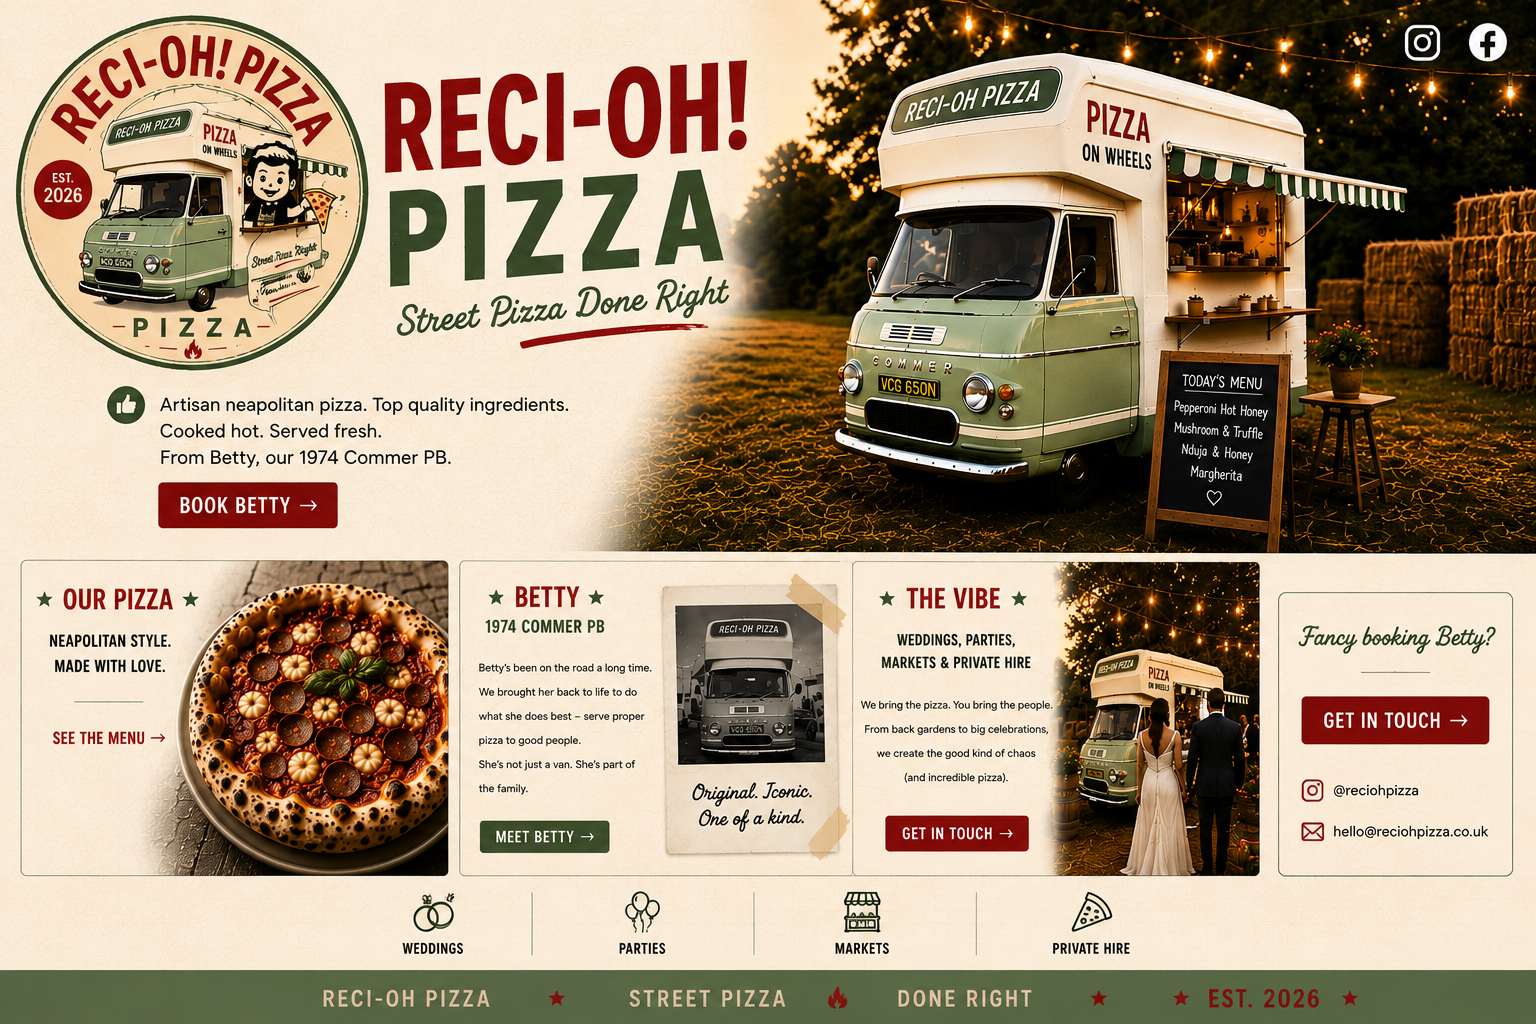
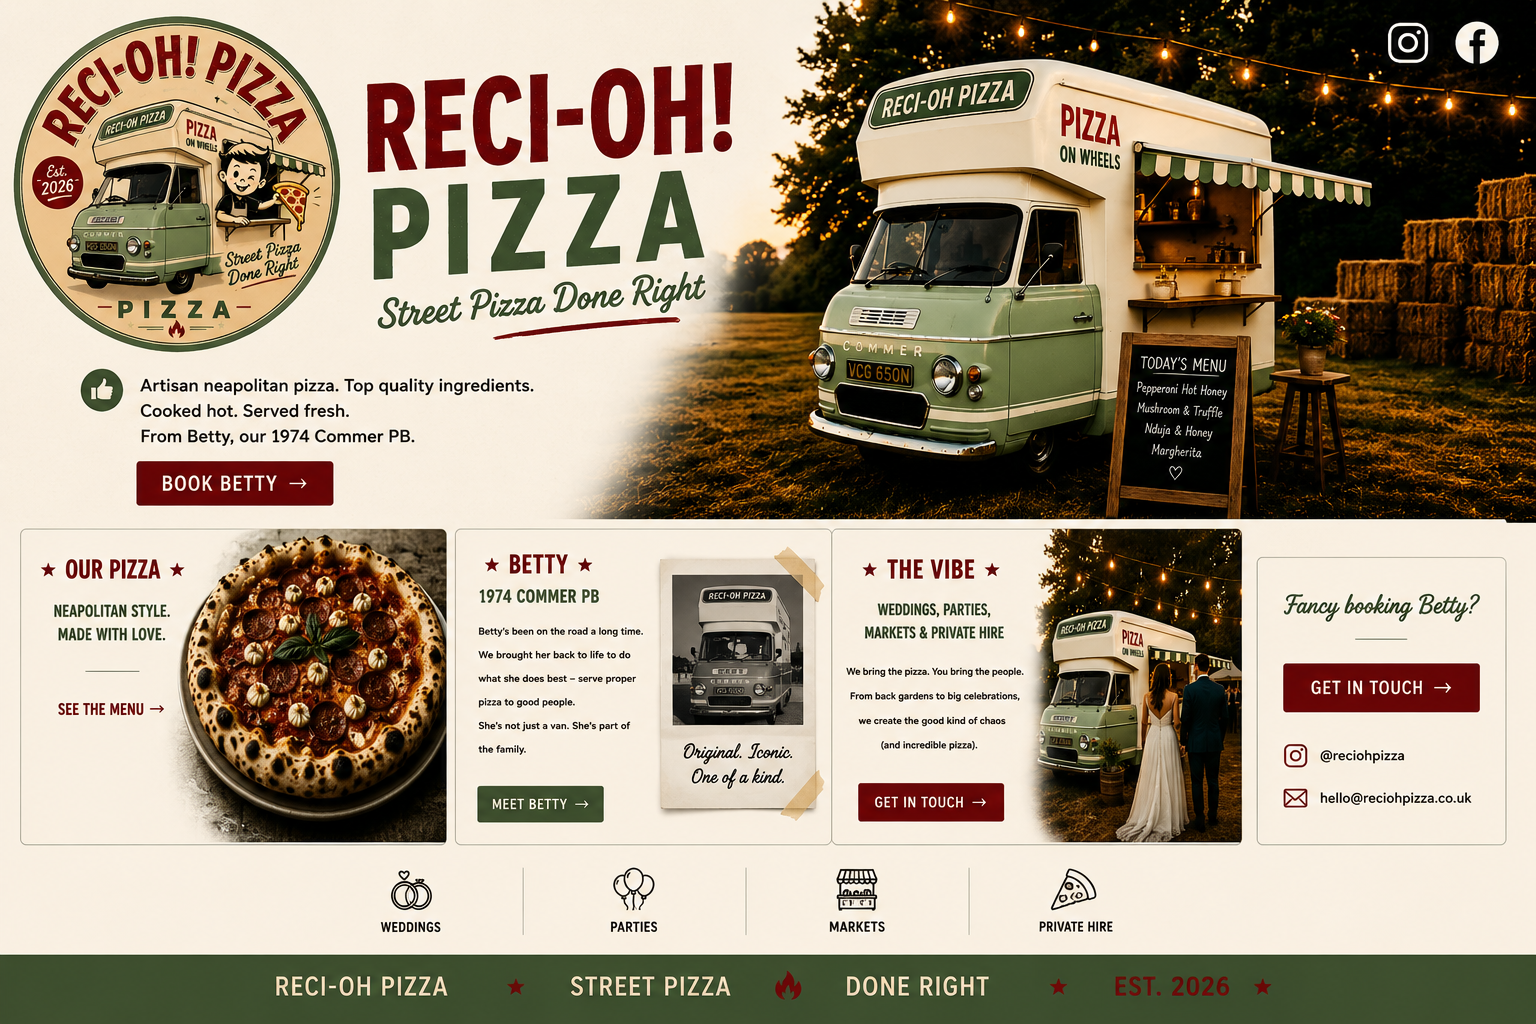
Add files via upload

diff --git a/index.html b/index.html
@@ -5,6 +5,8 @@
 <meta name="viewport" content="width=device-width, initial-scale=1.0">
 <title>Reci-Oh Pizza</title>
 
+<meta name="description" content="Reci-Oh Pizza - artisan Neapolitan pizza from Betty, our 1974 Commer PB van. Available for weddings, parties, markets and private hire.">
+
 <style>
 * {
   margin: 0;
@@ -21,7 +23,6 @@ body {
   overflow-x: hidden;
 }
 
-/* This keeps the full design clean on desktop */
 .page {
   position: relative;
   width: 100%;
@@ -35,7 +36,6 @@ body {
   display: block;
 }
 
-/* Invisible clickable areas over the image */
 .hotspot {
   position: absolute;
   display: block;
@@ -44,123 +44,129 @@ body {
 
 /* Main Book Betty button */
 .book-main {
-  left: 9.8%;
-  top: 47.2%;
-  width: 12.5%;
-  height: 5.2%;
+  left: 8.9%;
+  top: 45.5%;
+  width: 12.8%;
+  height: 5.3%;
 }
 
-/* See the Menu */
+/* See The Menu */
 .menu-link {
-  left: 3.5%;
-  top: 69.2%;
-  width: 11%;
-  height: 4.5%;
+  left: 3.4%;
+  top: 69%;
+  width: 10.2%;
+  height: 4.3%;
 }
 
 /* Meet Betty */
 .meet-betty {
-  left: 31%;
-  top: 78.2%;
-  width: 9.5%;
-  height: 4.2%;
+  left: 31.3%;
+  top: 78.1%;
+  width: 9.3%;
+  height: 4.3%;
 }
 
-/* Vibe / Get in Touch */
+/* Vibe Get In Touch */
 .vibe-contact {
-  left: 57.5%;
-  top: 78.4%;
-  width: 11.5%;
-  height: 4.5%;
+  left: 56.2%;
+  top: 77.9%;
+  width: 10.6%;
+  height: 4.4%;
 }
 
 /* Main contact box button */
 .main-contact {
-  right: 8.5%;
-  top: 67.5%;
-  width: 13.5%;
-  height: 6%;
+  right: 8.3%;
+  top: 64.7%;
+  width: 13.2%;
+  height: 5.8%;
 }
 
-/* Instagram icon */
-.instagram {
-  right: 8.2%;
-  top: 2.5%;
-  width: 3.5%;
-  height: 5%;
+/* Instagram top icon */
+.instagram-top {
+  right: 7.1%;
+  top: 2.4%;
+  width: 3.4%;
+  height: 5.4%;
 }
 
-/* Facebook icon */
-.facebook {
-  right: 3.6%;
-  top: 2.5%;
-  width: 3.5%;
-  height: 5%;
+/* Facebook top icon */
+.facebook-top {
+  right: 2.6%;
+  top: 2.4%;
+  width: 3.4%;
+  height: 5.4%;
 }
 
-/* Mobile: show the whole poster cleanly without cropping */
+/* Instagram in contact card */
+.instagram-contact {
+  right: 12.4%;
+  top: 72.7%;
+  width: 9.5%;
+  height: 3.5%;
+}
+
+/* Email in contact card */
+.email-contact {
+  right: 7.2%;
+  top: 78%;
+  width: 15%;
+  height: 3.5%;
+}
+
 @media (max-width: 768px) {
-  body {
-    background: #efe3c8;
-  }
-
   .page {
     width: 100%;
   }
 
-  .page img {
-    width: 100%;
-    height: auto;
-  }
-
   .book-main {
-    left: 9%;
-    top: 46.5%;
-    width: 16%;
-    height: 5.5%;
+    left: 8.5%;
+    top: 45.2%;
+    width: 15%;
+    height: 5.6%;
   }
 
   .menu-link {
-    left: 3%;
-    top: 68%;
-    width: 14%;
-    height: 5%;
-  }
-
-  .meet-betty {
-    left: 30%;
-    top: 77%;
+    left: 2.8%;
+    top: 68.3%;
     width: 13%;
     height: 5%;
   }
 
-  .vibe-contact {
-    left: 57%;
+  .meet-betty {
+    left: 31%;
     top: 77.5%;
-    width: 14%;
+    width: 12.5%;
+    height: 5%;
+  }
+
+  .vibe-contact {
+    left: 55.5%;
+    top: 77.4%;
+    width: 13.5%;
     height: 5%;
   }
 
   .main-contact {
-    right: 6%;
-    top: 66%;
-    width: 18%;
-    height: 7%;
+    right: 7%;
+    top: 64%;
+    width: 17%;
+    height: 6.5%;
   }
 
-  .instagram,
-  .facebook {
+  .instagram-top,
+  .facebook-top {
     top: 2%;
     width: 5%;
-    height: 5%;
+    height: 5.5%;
   }
 
-  .instagram {
-    right: 9%;
+  .instagram-top {
+    right: 8.5%;
   }
 
-  .facebook {
-    right: 3%;
+  .facebook-top {
+    right: 2.5%;
   }
 }
 </style>
@@ -171,14 +177,17 @@ body {
 <main class="page">
   <img src="recioh-homepage.png" alt="Reci-Oh Pizza homepage">
 
-  <a class="hotspot book-main" href="mailto:reciohpizza@gmail.com?subject=Booking%20Betty"></a>
-  <a class="hotspot menu-link" href="mailto:reciohpizza@gmail.com?subject=Pizza%20Menu"></a>
-  <a class="hotspot meet-betty" href="mailto:reciohpizza@gmail.com?subject=Meet%20Betty"></a>
-  <a class="hotspot vibe-contact" href="mailto:reciohpizza@gmail.com?subject=Private%20Hire%20Booking"></a>
-  <a class="hotspot main-contact" href="mailto:reciohpizza@gmail.com?subject=Booking%20Betty"></a>
+  <a class="hotspot book-main" href="mailto:reciohpizza@gmail.com?subject=Booking%20Betty" aria-label="Book Betty"></a>
+  <a class="hotspot menu-link" href="mailto:reciohpizza@gmail.com?subject=Pizza%20Menu" aria-label="Ask for the menu"></a>
+  <a class="hotspot meet-betty" href="mailto:reciohpizza@gmail.com?subject=Meet%20Betty" aria-label="Meet Betty"></a>
+  <a class="hotspot vibe-contact" href="mailto:reciohpizza@gmail.com?subject=Private%20Hire%20Booking" aria-label="Private hire booking"></a>
+  <a class="hotspot main-contact" href="mailto:reciohpizza@gmail.com?subject=Booking%20Betty" aria-label="Get in touch"></a>
 
-  <a class="hotspot instagram" href="https://www.instagram.com/reciohpizza/" target="_blank" rel="noopener"></a>
-  <a class="hotspot facebook" href="https://www.facebook.com/" target="_blank" rel="noopener"></a>
+  <a class="hotspot instagram-top" href="https://www.instagram.com/reciohpizza/" target="_blank" rel="noopener" aria-label="Instagram"></a>
+  <a class="hotspot facebook-top" href="https://www.facebook.com/" target="_blank" rel="noopener" aria-label="Facebook"></a>
+
+  <a class="hotspot instagram-contact" href="https://www.instagram.com/reciohpizza/" target="_blank" rel="noopener" aria-label="Instagram contact"></a>
+  <a class="hotspot email-contact" href="mailto:reciohpizza@gmail.com?subject=Booking%20Betty" aria-label="Email Reci-Oh Pizza"></a>
 </main>
 
 </body>
